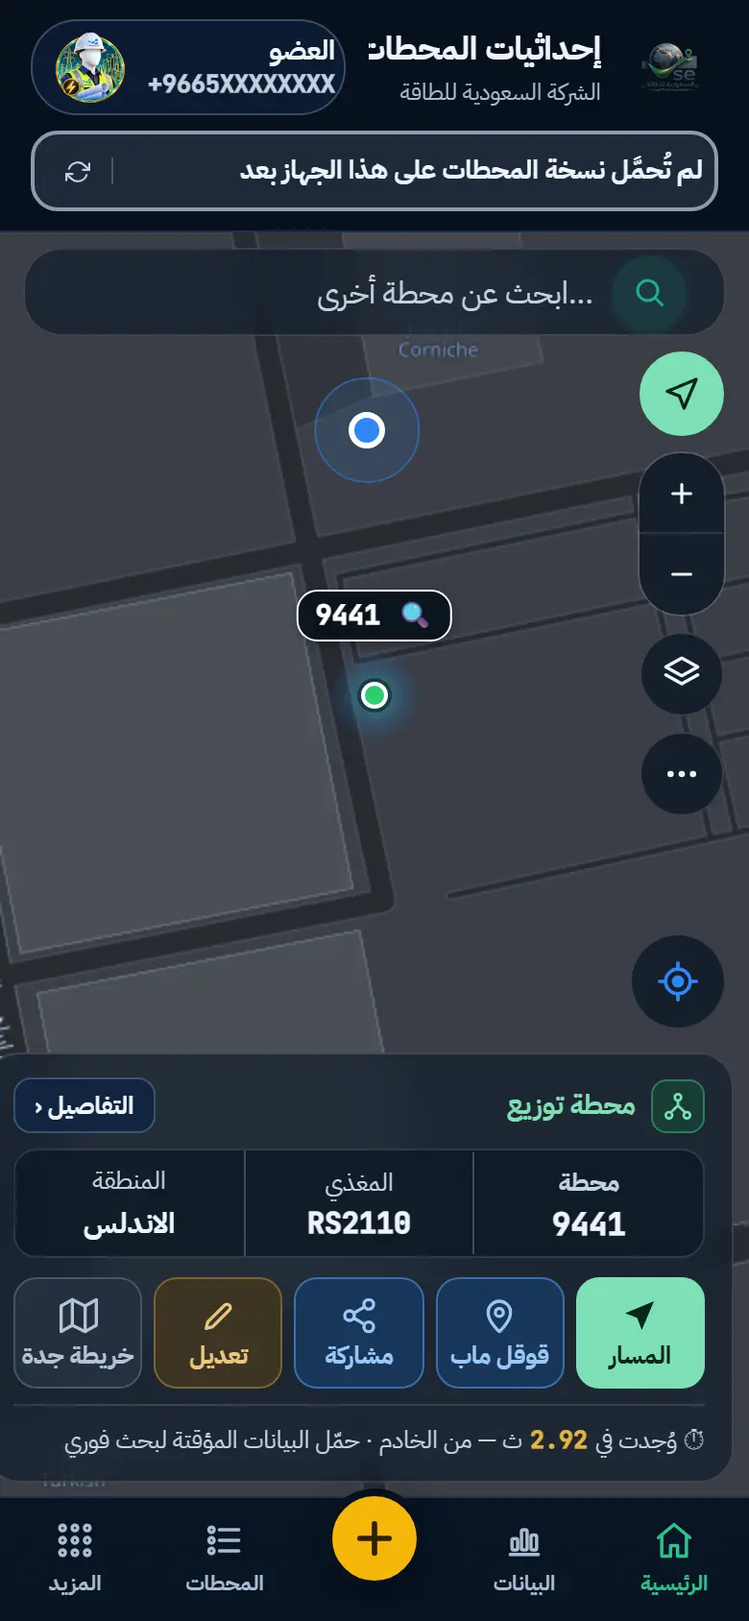
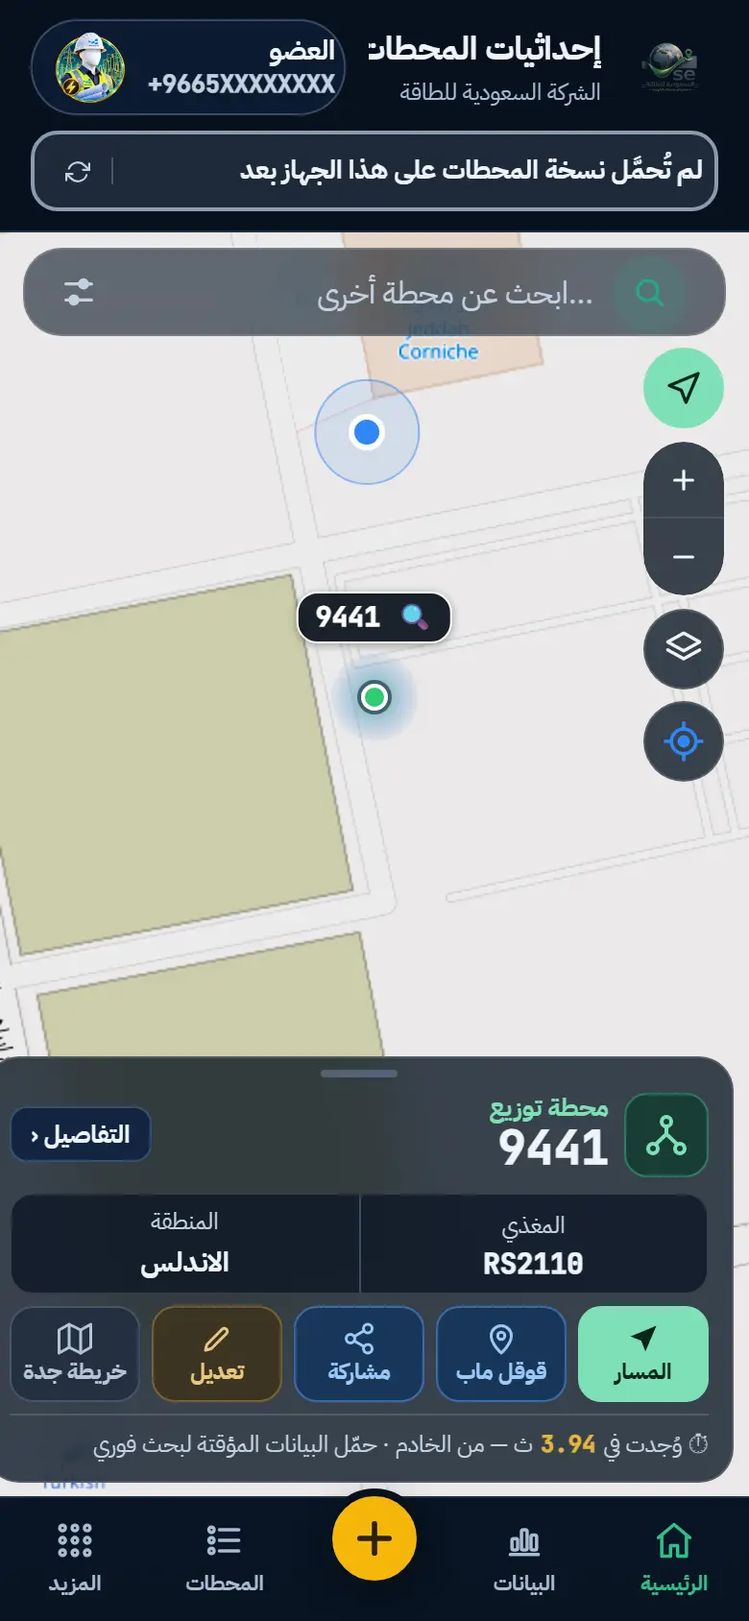
إعادة التصميم — بطاقة المحطة المختصرة والأزرار الجانبية لا تغطيها البطاقة (نموذج محمد 20 أكتوبر)
- البطاقة المختصرة: مقبض، رأس بالنوع والرقم الكبير و«التفاصيل»، خانات المغذي والمنطقة وعدد محطات المغذي (قابلة للضغط)،
  وصف أزرار واحد صغير دائمًا حتى على 320، ثم مدة البحث — 191 نقطة بدل 235 (أو 310 حين تلتف)
- «آخر تحديث لنسخة المحطات» انتقل من البطاقة إلى تبويب «المعلومات» في التفاصيل
- العمود الجانبي (الملاحة، التكبير، التصغير، الطبقات، موقعي) محصور بين البحث والبطاقة، ويلتف لعمود ثانٍ على الشاشات القصيرة
- أدوات الخريطة (قريب، مغذي، أعطال، ⋯) من أيقونة في طرف مربع البحث
- بطاقة أوضح فوق الخريطة النهارية؛ الجولة والاختبارات (+6 فحوص: العمود على 4 مقاسات، الأدوات، آخر تحديث في التفاصيل)

diff --git a/components/station-card.js b/components/station-card.js
@@ -13,7 +13,7 @@
  *   واحد على البطاقة (لا تكرار عند إعادة الرسم) يُزال بـ destroy؛ فشل أي إجراء خارجي لا يكسر البطاقة.
  *
  * The station card: display and actions only. Mohammed's design (15 Oct): one card around the map — data and the route
- * button above it, two equal button rows and the freshness line below it (drawn into deps.actionsContainer); the map stays
+ * button above it, one button row and the search time below it (drawn into deps.actionsContainer); the map stays
  * in its own container (full navigation folds the card and keeps it). Actions go to their owners (navigation view,
  * the Jeddah map sheet — managed there and from «My account» too —, the edit form); the card owns none of their logic.
  * Nearby and feeder (map-toolbar buttons as in V1): from the device copy with no server request, the server only without
@@ -24,8 +24,8 @@
 (function (global) {
   'use strict';
 
-  const Q = global.SecStationQuery, D = global.SecDates, H = global.SecHtml;
-  if (!Q || !D || !H) throw new Error('station-card.js يحتاج station-query.js وdates.js وhtml.js قبله / needs station-query.js, dates.js and html.js first');
+  const Q = global.SecStationQuery, H = global.SecHtml;
+  if (!Q || !H) throw new Error('station-card.js يحتاج station-query.js وhtml.js قبله / needs station-query.js and html.js first');
   const esc = H.esc;
   const OFFLINE_WRITE_MSG = 'هذه العملية تحتاج إلى اتصال بالإنترنت';
   const NO_COORDS_MSG = 'لا توجد إحداثيات صالحة لهذه المحطة — يمكن إضافتها بزر «تعديل»';
@@ -43,10 +43,6 @@
     return lines.join('\n');
   }
 
-  /* آخر تحديث لبيانات المحطات بالصيغة الموحدة (utils/dates) — The data freshness in the single format */
-  function freshness_(date) {
-    try { return D.dualDateTime(date); } catch (e) { return '—'; }
-  }
 
   /* مدة البحث ومصدره (طلب محمد، 16 أكتوبر): يظهر فقط حين تأتي المحطة من البحث (searchMs)، فيرى العضو فائدة نسخة الجهاز
    * The search time and its source (Mohammed, 16 Oct): only when the station came from a search, showing the device copy's value */
@@ -85,23 +81,27 @@
     return '<button class="st-btn ' + cls + '" type="button" data-act="' + act + '"' + (extra || '') + '><span class="st-ico">' + BTN_ICON[icon] + '</span><span class="st-lbl">' + label + '</span></button>';
   }
 
-  /* رأس اللوحة (طلب محمد 19 أكتوبر): سطر علوي برمز النوع الصغير والنوع و«التفاصيل»، ثم خانات «محطة | المغذي | المنطقة»
-   * The sheet head (Mohammed, 19 Oct): a top line with the small type symbol, the type and «details», then the cells
-   * «station | feeder | region» */
+  /* رأس البطاقة المختصرة (نموذج محمد 20 أكتوبر): مقبض، ثم رمز النوع ومعه «محطة توزيع» والرقم كبيرًا و«التفاصيل»، ثم خانات
+   * «المغذي | المنطقة | عدد محطات المغذي» — خانة العدد تُظهر محطات المغذي على الخريطة بالضغط عليها.
+   * The compact card head (Mohammed, 20 Oct): a handle, the type symbol with the type and a large number and «details»,
+   * then the cells «feeder | region | feeder count» — the count cell shows the feeder's stations when tapped. */
   function topHtml_(s, deps) {
     const coords = Q.hasCoordinates(s), sub = s.type === 'تحويل', kind = sub ? 'is-sub' : 'is-dist';
+    const fc = feederCount_(s, deps);
     return '<div class="sb-inner sb-top">' +
+      '<span class="sheet-handle" aria-hidden="true"></span>' +
       '<div class="sheet-head">' +
         '<div class="sheet-line">' +
           '<span class="sheet-badge ' + kind + '" aria-hidden="true">' + (TYPE_ICON[s.type] || TYPE_ICON['توزيع']) + '</span>' +
-          '<span class="sheet-type ' + kind + '">' + (sub ? 'محطة تحويل' : 'محطة توزيع') + '</span>' +
+          '<div class="sheet-title"><span class="sheet-type ' + kind + '">' + (sub ? 'محطة تحويل' : 'محطة توزيع') + '</span>' +
+            '<bdi class="sheet-id">' + esc(s.id) + '</bdi></div>' +
           (deps && deps.onDetails ? '<button type="button" class="sheet-more" data-act="details">التفاصيل ‹</button>' : '') +
         '</div>' +
-        '<div class="sb-data-row sheet-meta">' +
-          '<div class="sb-data-cell sheet-id"><div class="cell-label">محطة</div><bdi class="cell-value">' + esc(s.id) + '</bdi></div>' +
+        ((s.feeder || s.region || fc != null) ? '<div class="sb-data-row sheet-meta">' +
           (s.feeder ? '<div class="sb-data-cell"><div class="cell-label">المغذي</div><div class="cell-value">' + esc(s.feeder) + '</div></div>' : '') +
           (s.region ? '<div class="sb-data-cell"><div class="cell-label">المنطقة</div><div class="cell-value ar">' + esc(s.region) + '</div></div>' : '') +
-        '</div>' +
+          (fc != null ? '<button type="button" class="sb-data-cell st-feeder" data-act="feeder" title="عرض محطات المغذي على الخريطة"><div class="cell-label">عدد محطات المغذي</div><div class="cell-value st-count">' + fc + '</div></button>' : '') +
+        '</div>' : '') +
       '</div>' +
       (coords ? '' : '<div class="st-note-warn" data-role="no-coords">' + NO_COORDS_MSG + '</div>') +
     '</div>';
@@ -117,11 +117,10 @@
     return all.filter(function (x) { return String(x.feeder || '').trim() === feeder; }).length;
   }
 
-  /* الأزرار في صف واحد (يلتف على الشاشات الضيقة)، ثم «آخر تحديث لبيانات المحطات» — the buttons in one row, then the freshness */
+  /* الأزرار في صف واحد دائمًا (نموذج محمد 20 أكتوبر)، ثم مدة البحث — the buttons always in one row, then the search time */
   function bottomHtml_(s, deps) {
     const coords = Q.hasCoordinates(s), om = !!deps.offlineMapUI, canEdit = !!(deps.canEdit && deps.canEdit());
     const canDelete = !!(deps.isAdmin && deps.isAdmin() && deps.onDelete); // للمدير فقط (التصميم «أ») / admin only (design «A»)
-    const fresh = deps.dataFreshness ? deps.dataFreshness() : null;
     const buttons = [
       btn_('navigate', 'primary st-main', 'navigate', 'المسار', coords ? '' : ' disabled'),
       coords ? '<a class="st-btn st-google" data-act="google" href="' + esc(googleMapsUrl(s)) + '" target="_blank" rel="noopener"><span class="st-ico">' + BTN_ICON.google + '</span><span class="st-lbl">قوقل ماب</span></a>'
@@ -130,25 +129,22 @@
     ];
     if (canEdit) buttons.push(btn_('edit', 'st-edit', 'edit', 'تعديل'));
     if (canDelete) buttons.push(btn_('delete', 'st-danger', 'del', 'حذف'));
-    // بطاقة «محطات المغذي» مكان «خريطة جدة» إن وُجد مغذي (طلب محمد) — إدارة خريطة جدة باقية في «حسابي» و«المزيد»
-    // The «feeder stations» card replaces «Jeddah map» when there is a feeder — the Jeddah map stays in «My account» and «More»
-    const fc = feederCount_(s, deps);
-    if (fc != null) buttons.push('<button class="st-btn st-feeder" type="button" data-act="feeder" title="عرض محطات المغذي على الخريطة"><span class="st-count">' + fc + '</span><span class="st-lbl">محطة بالمغذي</span></button>');
-    else if (om) buttons.push('<button class="st-btn st-om" type="button" data-act="offline-map"><span class="st-ico">' + BTN_ICON.om + '</span><span class="st-lbl">خريطة جدة</span><small data-om-status></small></button>');
+    // عدد محطات المغذي صار خانة في الرأس (النموذج)؛ «خريطة جدة» زر حين لا توجد تلك الخانة — إدارتها باقية في «المزيد»
+    // The feeder count is now a head cell (the mock-up); «Jeddah map» is a button when that cell is absent — also in «More»
+    if (feederCount_(s, deps) == null && om) buttons.push('<button class="st-btn st-om" type="button" data-act="offline-map"><span class="st-ico">' + BTN_ICON.om + '</span><span class="st-lbl">خريطة جدة</span><small data-om-status></small></button>');
     return '<div class="sb-inner sb-bottom">' +
       '<div class="st-sub sheet-actions" style="--n:' + buttons.length + '">' + buttons.join('') +
         (canEdit ? '' : '<button class="st-btn" type="button" data-act="edit" hidden>✏ تعديل</button>') +
       '</div>' +
-      // تذييل واحد: مدة البحث ومصدره ثم آخر تحديث للبيانات (طلب محمد 19 أكتوبر) — one footer: search time/source, then freshness
-      '<div class="sheet-foot">' + searchTime_(s) +
-      (fresh ? '<div class="db-freshness-note"><svg width="15" height="15" viewBox="0 0 24 24" fill="none" stroke="currentColor" stroke-width="2" stroke-linecap="round" stroke-linejoin="round"><path d="M21 12.5A8.5 8.5 0 1 1 3 12.5a8.38 8.38 0 0 1 .9-3.8"/><path d="M21 3v6h-6"/></svg><span>آخر تحديث: ' + freshness_(fresh) + '</span></div>' : '') +
-      '</div>' +
+      // مدة البحث ومصدره تبقى في البطاقة، و«آخر تحديث» لنسخة المحطات انتقل إلى «التفاصيل» (قرار محمد 20 أكتوبر)
+      // The search time/source stays on the card; the copy's «last update» moved to «details» (Mohammed, 20 Oct)
+      (searchTime_(s) ? '<div class="sheet-foot">' + searchTime_(s) + '</div>' : '') +
     '</div>';
   }
 
   /**
    * render(container, station, deps) ← { update(station), nearby(), feeder(), station(), destroy() }
-   * deps: { onNavigate(s), onEdit(s), canEdit(), isAdmin(), onDelete(s), onFeeder(s) (عرض محطات المغذي), onDetails(s) (شاشة التفاصيل), offlineMapUI, toast(text), dataFreshness() → Date|null,
+   * deps: { onNavigate(s), onEdit(s), canEdit(), isAdmin(), onDelete(s), onFeeder(s) (عرض محطات المغذي), onDetails(s) (شاشة التفاصيل), offlineMapUI, toast(text),
    *         localStations() → Array|null, actionsContainer } — isAdmin + onDelete يُظهران «🗑 حذف» (نافذته في delete-station.js)؛
    *         actionsContainer: مكان الجزء السفلي تحت الخريطة (بدونه يُرسم الجزءان معًا في container)
    *         / where the bottom part goes under the map (without it both parts draw in container)

diff --git a/components/map-view.js b/components/map-view.js
@@ -40,12 +40,11 @@
     dark: '<svg width="13" height="13" viewBox="0 0 24 24" fill="none" stroke="currentColor" stroke-width="2" stroke-linecap="round" stroke-linejoin="round"><path d="M21 12.5A8.5 8.5 0 1 1 11.5 3 6.8 6.8 0 0 0 21 12.5z"/></svg>',
     satellite: '<svg width="13" height="13" viewBox="0 0 24 24" fill="none" stroke="currentColor" stroke-width="2" stroke-linecap="round" stroke-linejoin="round"><rect x="9" y="9" width="6" height="6" rx="1"/><rect x="1" y="10.5" width="5" height="3" rx="0.5"/><rect x="18" y="10.5" width="5" height="3" rx="0.5"/><line x1="6" y1="12" x2="9" y2="12"/><line x1="15" y1="12" x2="18" y2="12"/><line x1="12" y1="9" x2="12" y2="4"/><circle cx="12" cy="3" r="1"/></svg>'
   };
-  // العمود الجانبي (طلب محمد 20 أكتوبر): الملاحة المباشرة، التكبير/التصغير، الطبقات، الأدوات؛ و«موقعي» أسفل الخريطة
-  // The side column (Mohammed, 20 Oct): direct navigation, zoom, layers, tools; and «my location» at the bottom of the map
+  // العمود الجانبي (نموذج محمد 20 أكتوبر): الملاحة المباشرة، التكبير/التصغير، الطبقات، «موقعي» (الأدوات في مربع البحث)
+  // The side column (Mohammed's mock-up, 20 Oct): direct navigation, zoom, layers, «my location» (the tools are in the search box)
   const SIDE = {
     nav: '<svg width="20" height="20" viewBox="0 0 24 24" fill="none" stroke="currentColor" stroke-width="2" stroke-linejoin="round"><path d="M21 3 3 10.5l7.5 2.9L13.4 21z"/></svg>',
     layers: '<svg width="20" height="20" viewBox="0 0 24 24" fill="none" stroke="currentColor" stroke-width="2" stroke-linecap="round" stroke-linejoin="round"><polygon points="12 2 22 7.5 12 13 2 7.5 12 2"/><polyline points="2 12.5 12 18 22 12.5"/></svg>',
-    tools: '<svg width="20" height="20" viewBox="0 0 24 24" fill="currentColor"><circle cx="5" cy="12" r="2"/><circle cx="12" cy="12" r="2"/><circle cx="19" cy="12" r="2"/></svg>',
     locate: '<svg width="22" height="22" viewBox="0 0 24 24" fill="none" stroke="currentColor" stroke-width="2" stroke-linecap="round"><circle cx="12" cy="12" r="7"/><circle cx="12" cy="12" r="2.5" fill="currentColor"/><line x1="12" y1="1.5" x2="12" y2="4.5"/><line x1="12" y1="19.5" x2="12" y2="22.5"/><line x1="1.5" y1="12" x2="4.5" y2="12"/><line x1="19.5" y1="12" x2="22.5" y2="12"/></svg>'
   };
   const CHEV = '<svg class="mm-chev" width="10" height="10" viewBox="0 0 24 24" fill="none" stroke="currentColor" stroke-width="2"><polyline points="6 9 12 15 18 9"></polyline></svg>';
@@ -73,9 +72,8 @@
       '<div class="zoom-controls show"><div class="zoom-btn" data-act="zoom-in" role="button" title="تكبير" aria-label="تكبير"><svg width="16" height="16" viewBox="0 0 24 24" fill="none" stroke="currentColor" stroke-width="2.4" stroke-linecap="round"><line x1="12" y1="5" x2="12" y2="19"/><line x1="5" y1="12" x2="19" y2="12"/></svg></div>' +
         '<div class="zoom-btn" data-act="zoom-out" role="button" title="تصغير" aria-label="تصغير"><svg width="16" height="16" viewBox="0 0 24 24" fill="none" stroke="currentColor" stroke-width="2.4" stroke-linecap="round"><line x1="5" y1="12" x2="19" y2="12"/></svg></div></div>' +
         '<button type="button" class="side-btn" data-act="side-layers" title="نوع الخريطة" aria-label="نوع الخريطة">' + SIDE.layers + '</button>' +
-        '<button type="button" class="side-btn side-tools" data-act="side-tools" title="أدوات الخريطة: قريب، مغذي، أعطال، القياس" aria-label="أدوات الخريطة" aria-expanded="false">' + SIDE.tools + '</button>' +
+        '<button type="button" class="side-btn map-locate" data-act="side-locate" title="موقعي" aria-label="موقعي">' + SIDE.locate + '</button>' +
       '</div>' +
-      '<button type="button" class="side-btn map-locate" data-act="side-locate" title="موقعي" aria-label="موقعي">' + SIDE.locate + '</button>' +
       '<div class="map-toast" data-role="toast" role="status"></div>';
   }
 
@@ -233,12 +231,13 @@
     }
     /* زر الملاحة في العمود يظهر حين توجد محطة مختارة — the column's navigation button shows when a station is chosen */
     function setNavTarget(on) { stage.querySelector('[data-act="side-nav"]').hidden = !on; }
-    /* أدوات الشريط (قريب، مغذي، أعطال، ⋯) تُطوى خلف زر «الأدوات» — the toolbar tools fold behind the «tools» button */
+    /* أدوات الشريط (قريب، مغذي، أعطال، ⋯) مطوية ويفتحها زر الأدوات في مربع البحث؛ يُرجع الحالة الجديدة
+     * The toolbar tools (nearby, feeder, outage, ⋯) are folded; the search box's tools button opens them; returns the new state */
     function toggleTools_(open) {
       const on = open == null ? !stage.classList.contains('tools-open') : open;
       stage.classList.toggle('tools-open', on);
-      stage.querySelector('[data-act="side-tools"]').setAttribute('aria-expanded', on ? 'true' : 'false');
       if (o.onOverlayChange) o.onOverlayChange();
+      return on;
     }
 
     // ===== التلميح والتنبيه — Hint and toast =====
@@ -257,7 +256,6 @@
       const act = t.dataset.act;
       if (act === 'chip') { e.stopPropagation(); togglePanel_(!q('panel').classList.contains('show')); }
       else if (act === 'side-layers') { e.stopPropagation(); togglePanel_(!q('panel').classList.contains('show')); }
-      else if (act === 'side-tools') toggleTools_();
       else if (act === 'side-nav') { if (o.onNavigate) o.onNavigate(); }
       else if (act === 'side-locate') { if (o.onLocate) o.onLocate(); }
       else if (act === 'zoom-in') map.zoomIn();

diff --git a/styles/home.css b/styles/home.css
@@ -295,7 +295,7 @@ body:not(.nav-full) .view-map .map-mode-panel,body:not(.nav-full) .view-map .map
 body:not(.nav-full) .view-map .map-toast{bottom:calc(var(--sheet-h, 0px) + 16px);}
 /* بطاقة المحطة عائمة أسفل الخريطة بخلفية زجاجية — the station card floats at the bottom on glass */
 body:not(.nav-full) .view-map .station-sheet{position:absolute;left:8px;right:8px;bottom:8px;margin:0;z-index:20;max-height:56%;overflow-y:auto;overscroll-behavior:contain;
-  background:var(--glass-bg);border:1px solid var(--glass-line);-webkit-backdrop-filter:blur(16px) saturate(1.25);backdrop-filter:blur(16px) saturate(1.25);}
+  background:var(--glass-strong);border:1px solid var(--glass-line);-webkit-backdrop-filter:blur(16px) saturate(1.25);backdrop-filter:blur(16px) saturate(1.25);} /* أوضح فوق الخريطة النهارية / clearer over the day map */
 body:not(.nav-full) .view-map .station-sheet .sheet-meta{background:var(--glass-strong);border-color:var(--glass-line);}
 body:not(.nav-full) .view-map .station-sheet .sheet-foot{border-top-color:var(--glass-line);}
 /* الأدوات الخمس في سطر واحد بلا قص على 390 (الأنماط، قريب، مغذي، أعطال، ⋯) — all five tools on one line at 390 */
@@ -313,18 +313,25 @@ body:not(.nav-full) .view-map .toolbar-btn[data-tools="more"] .tb-icon{display:i
    Home = the map: a glass button column on the right under the search (direct navigation when a station is chosen, zoom,
    layers, tools) and «my location» bottom-right above the card. The toolbar tools fold behind «tools», no feature lost. */
 body:not(.nav-full) .view-map .map-stage-slot .globe-stage.map-active{padding-right:66px;}
-body:not(.nav-full) .view-map .map-side{display:flex;flex-direction:column;align-items:center;gap:8px;position:absolute;
-  top:calc(var(--search-h, 46px) + 16px);right:12px;z-index:12;}
-body:not(.nav-full) .view-map .side-btn{display:flex;align-items:center;justify-content:center;width:44px;height:44px;padding:0;border-radius:50%;cursor:pointer;
+/* العمود محصور بين البحث والبطاقة (نموذج محمد 20 أكتوبر): لا يُغطّى أبدًا؛ إن ضاقت المساحة تلتف الأزرار الزائدة إلى عمود ثانٍ
+   بجانبه (يسارًا) بدل أن تختفي خلف البطاقة — the column is bounded between the search and the card: never covered; when short,
+   the extra buttons wrap into a second column beside it (to the left) instead of hiding behind the card */
+body:not(.nav-full) .view-map .map-side{display:flex;flex-direction:column;flex-wrap:wrap;align-content:flex-start;align-items:center;gap:6px;position:absolute;
+  top:calc(var(--search-h, 46px) + 14px);bottom:calc(var(--sheet-h, 0px) + 10px);right:12px;z-index:12;}
+body:not(.nav-full) .view-map .side-btn{display:flex;align-items:center;justify-content:center;width:42px;height:42px;padding:0;border-radius:50%;cursor:pointer;
   background:var(--glass-strong);border:1px solid var(--glass-line);color:var(--text-primary);-webkit-backdrop-filter:blur(12px);backdrop-filter:blur(12px);}
 body:not(.nav-full) .view-map .side-btn[hidden]{display:none;}
 body:not(.nav-full) .view-map .side-nav{background:var(--c-dist-fg);border-color:var(--c-dist-fg);color:#07261C;}
 [data-theme="light"] body:not(.nav-full) .view-map .side-nav{color:#FFFFFF;}
-body:not(.nav-full) .view-map .side-tools[aria-expanded="true"]{border-color:var(--teal);color:var(--teal);}
 /* أداة نشطة (قريب/مغذي) والأدوات مطوية ← نقطة على زر الأدوات — an active tool while folded ← a dot on the tools button */
-body:not(.nav-full) .view-map .globe-stage:not(.tools-open):has(.toolbar-btn.active) .side-tools{border-color:var(--teal);color:var(--teal);box-shadow:inset 0 0 0 2px var(--teal);}
+/* زر الأدوات في مربع البحث: مفتوحة أو فيها أداة نشطة وهي مطوية ← بلون التوزيع — the search box's tools button: open, or an active tool while folded */
+.ssb-tools{display:none;}
+body:not(.nav-full) .view-map .ssb-tools{display:flex;align-items:center;justify-content:center;flex-shrink:0;width:38px;height:38px;border-radius:50%;padding:0;
+  border:1px solid transparent;background:none;color:var(--text-secondary);cursor:pointer;}
+body:not(.nav-full) .view-map .ssb-tools[aria-expanded="true"],
+body:not(.nav-full) .view-map.hero:has(.globe-stage:not(.tools-open) .toolbar-btn.active) .ssb-tools{color:var(--teal);border-color:var(--teal);background:rgba(31,174,140,0.12);}
 body:not(.nav-full) .view-map .map-side .zoom-controls{position:static;display:flex;flex-direction:column;border-radius:22px;overflow:hidden;
   border:1px solid var(--glass-line);box-shadow:none;}
-body:not(.nav-full) .view-map .map-side .zoom-btn{width:44px;height:42px;background:var(--glass-strong);-webkit-backdrop-filter:blur(12px);backdrop-filter:blur(12px);}
-body:not(.nav-full) .view-map .map-locate{position:absolute;right:12px;bottom:calc(var(--sheet-h, 0px) + 12px);z-index:12;width:50px;height:50px;color:#2F86F6;}
+body:not(.nav-full) .view-map .map-side .zoom-btn{width:42px;height:40px;background:var(--glass-strong);-webkit-backdrop-filter:blur(12px);backdrop-filter:blur(12px);}
+body:not(.nav-full) .view-map .map-locate{color:#2F86F6;}
 body:not(.nav-full) .view-map .globe-stage:not(.tools-open) .map-toolbar-bar{display:none;}

diff --git a/config/جولة_تعريفية.js b/config/جولة_تعريفية.js
@@ -34,15 +34,15 @@
       { img: 'assets/tour/06-state-offline.webp', rect: { x: 0, y: 68, w: 390, h: 52 },
         title: '🔴 أحمر: لا يوجد اتصال بالإنترنت',
         text: 'إذا انقطع الإنترنت يتحول الشريط إلى الأحمر ويذكر آخر وقت حُدّثت فيه نسختك — والبحث والخريطة والملاحة تعمل منها.\nوإن لم تكن على الجهاز نسخة يقول ذلك صراحة: «لا توجد نسخة ولا يوجد إنترنت».' },
-      { img: 'assets/tour/07-search-server.webp', rect: { x: 7, y: 731, w: 360, h: 28 },
+      { img: 'assets/tour/07-search-server.webp', rect: { x: 5, y: 736, w: 364, h: 25 },
         title: '⏱ البحث قبل تحميل النسخة',
         text: 'قبل اكتمال النسخة يذهب البحث إلى الخادم وينتظر رده — وتظهر المدة الفعلية ومصدرها أسفل بطاقة المحطة.\nوبدون إنترنت لا يمكن البحث قبل تحميل النسخة.' },
-      { img: 'assets/tour/08-search-local.webp', rect: { x: 7, y: 706, w: 360, h: 53 },
+      { img: 'assets/tour/08-search-local.webp', rect: { x: 5, y: 736, w: 364, h: 25 },
         title: '⚡ البحث بعد تحميل النسخة',
         text: 'بعد التحميل تظهر النتيجة من جهازك في جزء من الألف من الثانية — «من نسخة جهازك» — حتى بدون إنترنت.\nوالنسخة تتحدث تلقائيًا بتغييرات الزملاء.' },
-      { img: 'assets/tour/09-station-sheet.webp', rect: { x: 0, y: 514, w: 382, h: 258 }, point: { x: 7, y: 631, w: 67, h: 67 },
+      { img: 'assets/tour/09-station-sheet.webp', rect: { x: 0, y: 550, w: 382, h: 222 }, point: { x: 6, y: 626, w: 121, h: 44 },
         title: '📍 بطاقة المحطة فوق الخريطة',
-        text: 'الخريطة بكامل الصفحة والمحطة في منتصف الجزء الظاهر منها، وأسفلها بطاقة المحطة: الرقم والنوع والمغذي والمنطقة، وأزرار المسار وقوقل ماب والمشاركة والتعديل.\nوبطاقة «محطة بالمغذي» تعرض عدد محطات المغذي، وتُظهرها على الخريطة بالضغط عليها.' },
+        text: 'الخريطة بكامل الصفحة والمحطة في منتصف الجزء الظاهر منها، وأسفلها بطاقة مختصرة: النوع والرقم، والمغذي والمنطقة وعدد محطات المغذي، وصف أزرار المسار وقوقل ماب والمشاركة والتعديل.\nاضغط «عدد محطات المغذي» لتظهر على الخريطة، و«آخر تحديث» للنسخة تجده في «التفاصيل».' },
       { img: 'assets/tour/10-details.webp', rect: { x: 16, y: 279, w: 358, h: 52 },
         title: '📋 تفاصيل المحطة',
         text: 'زر «التفاصيل» في لوحة المحطة يفتح ثلاثة تبويبات: المعلومات (ومعها نسخ الإحداثيات)، والموقع، والمحطات القريبة منها.\nوزر الرجوع يعيدك إلى الخريطة على المحطة نفسها.' },
@@ -57,7 +57,7 @@
         text: 'تظهر المحطات بالأحرف A ثم B ثم C بترتيب كتابتك، مع خط يربطها.\nوزر «الانتقال بالترتيب على قوقل ماب» يفتح مسارًا جاهزًا يمر بها كلها.' },
       { img: 'assets/tour/14-ruler.webp', rect: { x: 12, y: 226, w: 312, h: 96 },
         title: '📐 قياس المسافة على الخريطة',
-        text: 'من عمود أزرار الخريطة اضغط زر الأدوات «⋯»، ثم «⋯» في صف الأدوات، ثم «📐 قياس المسافة».\nثم اضغط على نقطتين أو أكثر في الخريطة، فيظهر طول كل جزء والمسافة الإجمالية.' },
+        text: 'اضغط أيقونة الأدوات في طرف مربع البحث، ثم «⋯» في صف الأدوات، ثم «📐 قياس المسافة».\nثم اضغط على نقطتين أو أكثر في الخريطة، فيظهر طول كل جزء والمسافة الإجمالية.' },
       { img: 'assets/tour/15-nav-online.webp', rect: { x: 0, y: 708, w: 390, h: 136 },
         title: '🧭 الملاحة مع الإنترنت',
         text: 'زر «المسار» يرسم مسار الطرق الفعلي بشاشة كاملة، ويعرض المسافة والوقت المتوقع.\nإذا خرجت عن المسار يعيد الحساب تلقائيًا، وزر «✕ إنهاء» يعيدك إلى صفحة المحطة.' },

diff --git a/components/station-search-box.js b/components/station-search-box.js
@@ -28,11 +28,14 @@
   const BAR_SVG = '<svg width="18" height="18" viewBox="0 0 24 24" fill="none" stroke="currentColor" stroke-width="2" stroke-linecap="round"><circle cx="11" cy="11" r="7"></circle><line x1="21" y1="21" x2="16.65" y2="16.65"></line></svg>';
   const WARN_SVG = '<svg width="15" height="15" viewBox="0 0 24 24" fill="none" stroke="currentColor" stroke-width="2" stroke-linecap="round" stroke-linejoin="round"><path d="M10.29 3.86 1.82 18a2 2 0 0 0 1.71 3h16.94a2 2 0 0 0 1.71-3L13.71 3.86a2 2 0 0 0-3.42 0z"/><line x1="12" y1="9" x2="12" y2="13"/><line x1="12" y1="17" x2="12.01" y2="17"/></svg>';
   const NOFILL = ' type="text" inputmode="text" autocomplete="new-password" data-lpignore="true" data-form-type="other" autocorrect="off" autocapitalize="off" spellcheck="false"';
+  // أيقونة الضبط في طرف الشريط تفتح أدوات الخريطة (opts.onTools) — the sliders icon at the bar's end opens the map tools
+  const TOOLS_SVG = '<svg width="20" height="20" viewBox="0 0 24 24" fill="none" stroke="currentColor" stroke-width="2" stroke-linecap="round"><line x1="4" y1="7" x2="20" y2="7"/><line x1="4" y1="17" x2="20" y2="17"/><circle cx="15" cy="7" r="2.5" fill="currentColor"/><circle cx="9" cy="17" r="2.5" fill="currentColor"/></svg>';
   const PROGRESS = '<div class="search-progress-track"><div class="search-progress-fill" data-role="fill"></div></div><div class="search-progress-label"><span>جاري البحث عن المحطة...</span><span data-role="pct">0%</span></div>';
 
   /**
    * mount(container, opts) — opts: { variant: 'lens'|'bar', placeholder (للشريط، اختياري)، isLoggedIn() (افتراضيًا session.js), onFound(station),
-   *   onAdd(query), onUpdated(station), closeOnOutside() → bool (للعدسة: الافتراضي true) }
+   *   onAdd(query), onUpdated(station), closeOnOutside() → bool (للعدسة: الافتراضي true)، onTools() → bool (للشريط: زر الأدوات،
+   *   يُرجع هل صارت مفتوحة / the bar's tools button, returns whether they are now open) }
    * يُرجع { search(text)، setCompact(on)، clear()، focus()، isOpen()، isSearching()، destroy() }
    */
   function mount(container, opts) {
@@ -43,7 +46,9 @@
       ? '<div class="search-lens" data-role="box">' + LENS_SVG + '<input data-role="input" placeholder="مثال: 39070 أو ABN" aria-label="رقم المحطة"' + NOFILL + '></div>' +
         '<div class="search-hint" data-role="hint" role="status"></div><div class="search-progress" data-role="progress">' + PROGRESS + '</div>'
       : '<div class="search-and-back-row show"><div class="station-search-bar" data-role="box"><span class="ssb-icon" data-act="search" role="button" aria-label="بحث">' + BAR_SVG + '</span>' +
-        '<input data-role="input" placeholder="ابحث عن محطة أخرى..." aria-label="رقم المحطة"' + NOFILL + '></div></div>' +
+        '<input data-role="input" placeholder="ابحث عن محطة أخرى..." aria-label="رقم المحطة"' + NOFILL + '>' +
+        (o.onTools ? '<button type="button" class="ssb-tools" data-act="tools" title="أدوات الخريطة: قريب، مغذي، أعطال، القياس" aria-label="أدوات الخريطة" aria-expanded="false">' + TOOLS_SVG + '</button>' : '') +
+        '</div></div>' +
         '<div class="station-search-progress" data-role="progress">' + PROGRESS + '</div><div class="station-search-hint" data-role="hint" role="status"></div>';
     const r = function (n) { return container.querySelector('[data-role="' + n + '"]'); };
     const input = r('input'), box = r('box'), hint = r('hint');
@@ -118,6 +123,7 @@
       const act = t.dataset.act;
       if (act === 'add') { if (o.onAdd) o.onAdd(hint.dataset.query || ''); return; }
       if (act === 'retry') { clear(); input.focus(); return; }
+      if (act === 'tools') { t.setAttribute('aria-expanded', o.onTools() ? 'true' : 'false'); return; }
       if (lens && !box.classList.contains('open')) { open_(); input.focus(); return; }
       if (act === 'search') search();
     }

diff --git a/styles/station-card.css b/styles/station-card.css
@@ -217,3 +217,34 @@ body.nav-full .station-sheet{display:none !important;}
 .station-sheet .sheet-meta .sb-data-cell .cell-value{display:block;}
 .station-sheet .sheet-meta .sheet-id .cell-value{font-size:16px;}
 @media (max-width:380px){ .sheet-badge{width:26px;height:26px;} }
+
+/* ===== البطاقة المختصرة (نموذج محمد 20 أكتوبر): مقبض، رأس بالرمز والنوع والرقم الكبير، خانات «المغذي | المنطقة | عدد
+   محطات المغذي»، وصف أزرار واحد صغير دائمًا (حتى على 320)، ثم مدة البحث — لا تأخذ من الخريطة إلا القليل.
+   The compact card (Mohammed's mock-up, 20 Oct): a handle, a head with the symbol, type and large number, the cells
+   «feeder | region | feeder count», always one small button row (even at 320), then the search time. ===== */
+.station-sheet .sb-inner{padding:6px 12px 10px;}
+.station-sheet .sb-top{padding-bottom:4px;}
+.station-sheet .sb-bottom{padding-top:2px;}
+.sheet-handle{display:block;width:40px;height:4px;border-radius:2px;background:var(--border-strong);margin:0 auto 8px;}
+.sheet-badge{width:44px;height:44px;border-radius:12px;}
+.sheet-badge svg{width:24px;height:24px;}
+.sheet-line .sheet-title{display:flex;flex-direction:column;align-items:flex-start;flex:1;min-width:0;line-height:1.2;}
+.sheet-line .sheet-type{flex:none;font-size:13px;}
+.sheet-title .sheet-id{font-family:'JetBrains Mono',monospace;font-size:24px;font-weight:800;color:var(--text-primary);white-space:nowrap;overflow:hidden;text-overflow:ellipsis;}
+.station-sheet .sheet-meta{margin:0;}
+.station-sheet .sheet-meta .sb-data-cell{padding:5px 4px;}
+.station-sheet .sheet-meta .cell-label{font-size:12px;margin-bottom:1px;}
+.station-sheet .sheet-meta .cell-value{font-size:14.5px;}
+/* خانة عدد محطات المغذي زر بلون التوزيع — the feeder count cell is a button in the distribution color */
+.station-sheet .sheet-meta button.st-feeder{font-family:inherit;background:none;border:none;border-inline-start:1px solid var(--border-strong);color:var(--c-dist-fg);cursor:pointer;}
+.station-sheet .sheet-meta button.st-feeder .cell-label{color:inherit;opacity:.85;}
+.station-sheet .sheet-meta .st-count{font-size:15px;color:var(--c-dist-fg);}
+/* صف أزرار واحد دائمًا — always one button row */
+.station-sheet .sheet-actions{grid-template-columns:repeat(var(--n, 5), minmax(0,1fr));gap:6px;}
+@media (max-width:359px){ .station-sheet .sheet-actions{grid-template-columns:repeat(var(--n, 5), minmax(0,1fr));gap:4px;} }
+.station-table.station-sheet .sheet-actions .st-btn{min-height:50px;padding:5px 1px;gap:2px;border-radius:12px;}
+.station-table.station-sheet .sheet-actions .st-btn .st-ico svg{width:18px;height:18px;}
+.station-table.station-sheet .sheet-actions .st-btn .st-lbl{font-size:11.5px;line-height:1.15;}
+@media (max-width:359px){ .station-table.station-sheet .sheet-actions .st-btn .st-lbl{font-size:10.5px;} }
+.station-sheet .sheet-foot{margin-top:6px;padding-top:6px;}
+.station-sheet .sheet-foot .st-search-time{font-size:12px;}

diff --git a/pages/home.js b/pages/home.js
@@ -186,7 +186,6 @@
       onDelete: function (s) { SecDeleteStation.open(s, { toast: notify_, onDeleted: function () { goBackToSearch(); stats.refresh(true); } }); },
       offlineMapUI: global.SecOfflineMapUI || null,
       toast: notify_,
-      dataFreshness: function () { return SYNC.state().syncedAt; },
       localStations: function () { return SYNC.stations(); },
       // «محطات المغذي» في اللوحة ← نفس زر «مغذي» في شريط الخريطة — the sheet's feeder card ← the toolbar's feeder button
       onFeeder: function () { const b = $('mapStage').querySelector('[data-nearby="feeder"]'); if (b) b.click(); },
@@ -248,7 +247,8 @@
   }
   // حقل ظاهر دائمًا بدل العدسة الدائرية (ملاحظة محمد 19 أكتوبر) — an always-visible field instead of the round lens
   const lens = SecStationSearchBox.mount($('lensBox'), { variant: 'bar', placeholder: 'اكتب رقم المحطة أو رمزها', isLoggedIn: loggedIn, onFound: goToStation, onAdd: function (q) { SecStationForm.openAdd(q); }, onUpdated: onUpdated_ });
-  const bar = SecStationSearchBox.mount($('barBox'), { variant: 'bar', isLoggedIn: loggedIn, onFound: goToStation, onAdd: function (q) { SecStationForm.openAdd(q); }, onUpdated: onUpdated_ });
+  const bar = SecStationSearchBox.mount($('barBox'), { variant: 'bar', isLoggedIn: loggedIn, onFound: goToStation, onAdd: function (q) { SecStationForm.openAdd(q); }, onUpdated: onUpdated_,
+    onTools: function () { return view ? view.toggleTools() : false; } }); // أدوات الخريطة من مربع البحث (النموذج) / the map tools from the search box
   // بطاقة «بحث عن حالة عطل» في صف الإجراءات تفتح لوحة الأرقام تحته (تصميم محمد، 15 أكتوبر) / the outage tile opens the panel below it
   const outage = SecOutageSearch.mountHome($('homeOutage'), {
     toggle: $('outageTileBtn'),
@@ -439,6 +439,7 @@
     onOpenStation: function (s) { closeDetails_(); goToStation(s); },
     googleMapsUrl: SecStationCard.googleMapsUrl, shareText: SecStationCard.shareText,
     localStations: function () { return SYNC.stations(); },
+    dataFreshness: function () { return SYNC.state().syncedAt; }, // «آخر تحديث» لنسخة المحطات / the copy's last update
     toast: notify_
   });
   function openDetails_(s) {

diff --git a/components/station-details.js b/components/station-details.js
@@ -39,7 +39,7 @@
   /**
    * mount(container, deps) ← { open(station), station(), tab(), isOpen(), close() }
    * deps: { onBack(), onNavigate(s), onEdit(s), canEdit(), onShowOnMap(s), onOpenStation(s), googleMapsUrl(s), shareText(s),
-   *         localStations() → Array|null, toast(text) }
+   *         localStations() → Array|null, dataFreshness() → Date|null (آخر تحديث للنسخة / the copy's last update), toast(text) }
    */
   function mount(container, deps) {
     const d = deps || {};
@@ -84,6 +84,9 @@
       const fc = feederCount_();
       if (fc != null) list.appendChild(row_('محطات المغذي', fc + ' محطة'));
       list.appendChild(Q.hasCoordinates(s) ? row_('الإحداثيات', coordsText_(s), { mono: true, copy: true }) : row_('الإحداثيات', 'لا توجد إحداثيات صالحة'));
+      // آخر تحديث لنسخة المحطات على الجهاز (انتقل من البطاقة — قرار محمد 20 أكتوبر) — the device copy's last update (moved from the card)
+      const fresh = d.dataFreshness ? d.dataFreshness() : null;
+      if (fresh && global.SecDates) list.appendChild(row_('آخر تحديث لنسخة المحطات', global.SecDates.dualDateTime(fresh)));
       p.appendChild(list);
       const acts = el_('div', 'sd-actions');
       const coords = Q.hasCoordinates(s);
